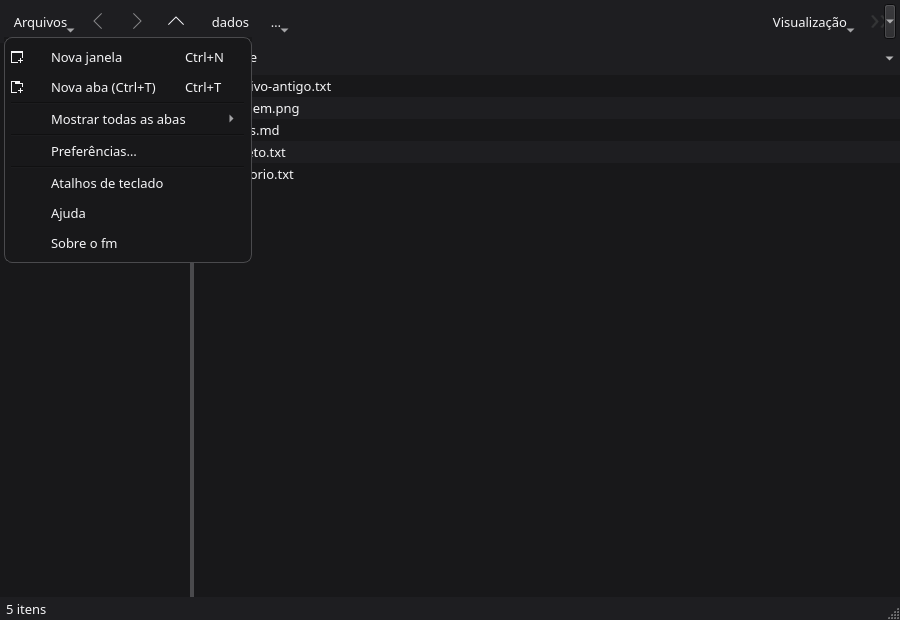
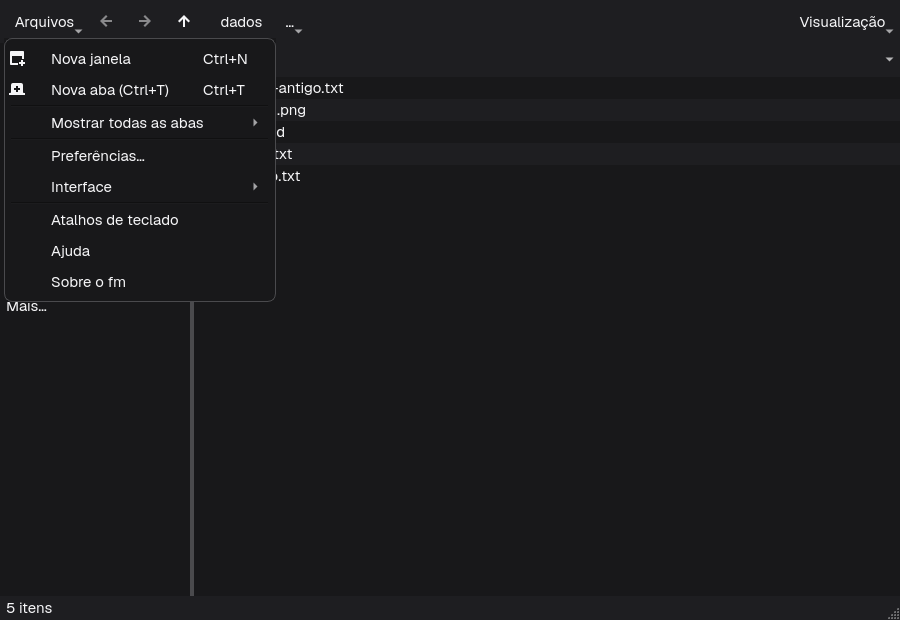
docs: atualiza capturas e valida menus em Wayland real
Regera as oito capturas sem o terceiro menu e registro a validação de interação a 320 px em sessão Wayland real: Tab alcança Arquivos e Visualização, Espaço/Enter abrem cada menu, Esc devolve o foco ao botão e o popup de Visualização não corta ações.

CTest repetido no código final: Debug 6/6 em 6,43 s e Release 6/6 em 6,39 s, zero avisos.

diff --git a/docs/superpowers/validation/2026-11-28-menus-barra-e-preferencias.md b/docs/superpowers/validation/2026-11-28-menus-barra-e-preferencias.md
@@ -66,7 +66,7 @@ Comparação histórica (documento `2026-11-27-identidade-visual-presets.md`, PR
 
 ## Capturas dos menus (três presets e 320 px)
 
-Geradas offscreen com o mesmo estilo Fusion e a paleta da shell: um utilitário temporário fora do repositório (`/tmp/opencode/fm20-capturas`) instanciou `MainWindow`, aplicou `defaultUiPreferences(preset)` e compôs `QWidget::render()` da janela com o popup. Os rótulos abaixo foram conferidos por OCR (`tesseract -l spa+eng --psm 11`); este modelo não inspecionou as imagens visualmente.
+Regeradas em `5179316` (já sem o terceiro botão) com o mesmo estilo Fusion e a paleta da shell: um utilitário temporário fora do repositório (`/tmp/opencode/fm20-capturas`) instanciou `MainWindow`, aplicou `defaultUiPreferences(preset)` e compôs `QWidget::render()` da janela com o popup. Os rótulos abaixo foram conferidos por OCR (`tesseract -l spa+eng --psm 11`); este modelo não inspecionou as imagens visualmente. OCR das oito imagens: nenhuma contém "Mais opções"; `Interface` aparece em `Arquivos`; o popup de `Visualização` a 320 px contém as 17 ações (lista, grade, oito ordenações, ocultos, pré-visualização, três zoom, duas legendas).
 
 | Preset / largura | `Arquivos` | `Visualização` |
 |---|---|---|
@@ -75,7 +75,7 @@ Geradas offscreen com o mesmo estilo Fusion e a paleta da shell: um utilitário 
 | Avançada (900 px) | [menu-arquivos-avancada.png](capturas/menu-arquivos-avancada.png) — mesmos itens com colunas completas e pré-visualização | [menu-visualizacao-avancada.png](capturas/menu-visualizacao-avancada.png) — mesmos itens com legenda de atalhos na toolbar |
 | 320 px (Equilibrada) | [menu-arquivos-estreita-320.png](capturas/menu-arquivos-estreita-320.png) — botões Arquivos e Visualização continuam visíveis; popup mantém os sete itens legíveis | [menu-visualizacao-estreita-320.png](capturas/menu-visualizacao-estreita-320.png) — popup reposicionado dentro da janela estreita; OCR confirma as oito ordenações e ações de exibição |
 
-Limitação das capturas: o platform offscreen não aplica geometria de tela real, então o popup da janela de 320 px foi reposicionado para caber no quadro; a cadeia de foco e a abertura por teclado nessa largura são verificadas por `keyboardOpensMenusAt320InEveryPreset` e pelos dois testes novos. Nenhuma captura de sessão Wayland foi feita nesta task.
+Limitação destas imagens: o platform offscreen não aplica geometria de tela real, então o popup da janela de 320 px foi reposicionado para caber no quadro. A interação em sessão Wayland real foi validada separadamente (seção abaixo), com o mesmo `MainWindow` do commit final.
 
 ## Resultado
 
@@ -95,4 +95,24 @@ RED → GREEN: `onlyTwoMenusKeepEveryCommand` falhou em runtime enquanto `moreMe
 | Ajustes pós-revisão | Debug | **6/6, 100%** | 6,39 s | 0 |
 | Ajustes pós-revisão | Release | **6/6, 100%** | 6,51 s | 0 |
 
-`mainwindow_test` passou de 37 para 39 casos; contagem total agora 128 casos QTest + 1 smoke. O benchmark de 140,5 ms **não foi repetido** nesta rodada (mudança é de montagem de menus e argumentos, não de hot path de pintura); o número do corpo do PR continua como medição da rodada anterior, com as mesmas ressalvas de não pareamento. Capturas existentes mostram o terceiro botão na Equilibrada a 900 px e precisam ser refeitas após esta mudança antes de sair do rascunho.
+`mainwindow_test` passou de 37 para 39 casos; contagem total agora 128 casos QTest + 1 smoke. O benchmark de 140,5 ms **não foi repetido** nesta rodada (mudança é de montagem de menus e argumentos, não de hot path de pintura); o número do corpo do PR continua como medição da rodada anterior, com as mesmas ressalvas de não pareamento. As oito capturas foram regeradas em `5179316`, já sem o terceiro botão, e conferidas por OCR.
+
+## Validação em sessão Wayland real (320 px)
+
+Sessão `XDG_SESSION_TYPE=wayland`, `WAYLAND_DISPLAY=wayland-0`, compositor `umbriel`, saída HDMI-A-1 com área útil `1912x1038-1916+38`. Um probe temporário fora do repositório (`/tmp/opencode/fm20-wayland`) instanciou o `MainWindow` do commit final com `setFixedSize(320, 600)`, preset `Equilibrada`, tema da shell, e registrou eventos de foco/show/hide em `stderr`. As teclas foram enviadas por `wtype` (protocolo virtual-keyboard do Wayland), não por eventos sintéticos do Qt; a janela foi posta em modo floating com `umbriel msg window-toggle-floating`.
+
+Sequência observada no log (cada passo com pausa entre teclas):
+
+| Ação real | Evidência |
+|---|---|
+| Âncora em `Arquivos` | `[probe] anchor: filesMenuButton focused` |
+| `Tab` ×6 | `filesMenuButton → QToolButton → breadcrumbOverflow → viewMenuButton → places → QTreeView → breadcrumbButton` — ambos os botões alcançados |
+| `Shift+Tab` ×3 até `viewMenuButton`; `Espaço` | `[event] SHOW viewMenu`, `focus=viewMenuButton`, `viewVis=1` |
+| `Esc` | `[event] HIDE viewMenu`, `focus=viewMenuButton` — foco devolvido ao botão |
+| `Enter` | `viewVis=1` — reabertura por Enter confirmada |
+| `Shift+Tab` ×3 até `filesMenuButton`; `Espaço` | `filesVis=1`, OCR da captura: Nova janela, Nova aba, Preferências…, `Interface`, Atalhos, Ajuda, Sobre |
+| `Esc`; `Enter`; `Esc` | `filesVis` 1 → 0; `focus=filesMenuButton` ao final |
+
+Popup de `Visualização` na janela de 320 px: `viewMenu=361x545+-1639,39`, última ação em `-1284,578`. Ambos os cantos ficam dentro da área útil de `HDMI-A-1` (`x` de −1916 a −4, `y` de 38 a 1076); o menu é mais largo que a janela, mas não é cortado pela tela. `grim` + OCR da região do popup confirmam as 17 ações renderizadas, de `Lista detalhada` a `Mostrar data na grade`.
+
+O probe foi encerrado ao final e o foco voltou à janela do OpenCode. Capturas de evidência brutas em `/tmp/opencode/fm-wayland-view-320.png` e `/tmp/opencode/fm-wayland-files-320.png` (fora do repositório). As oito imagens versionadas continuam sendo as composições offscreen; a validação de interação aqui registrada complementa — não substitui — o aceite visual em Wayland.
